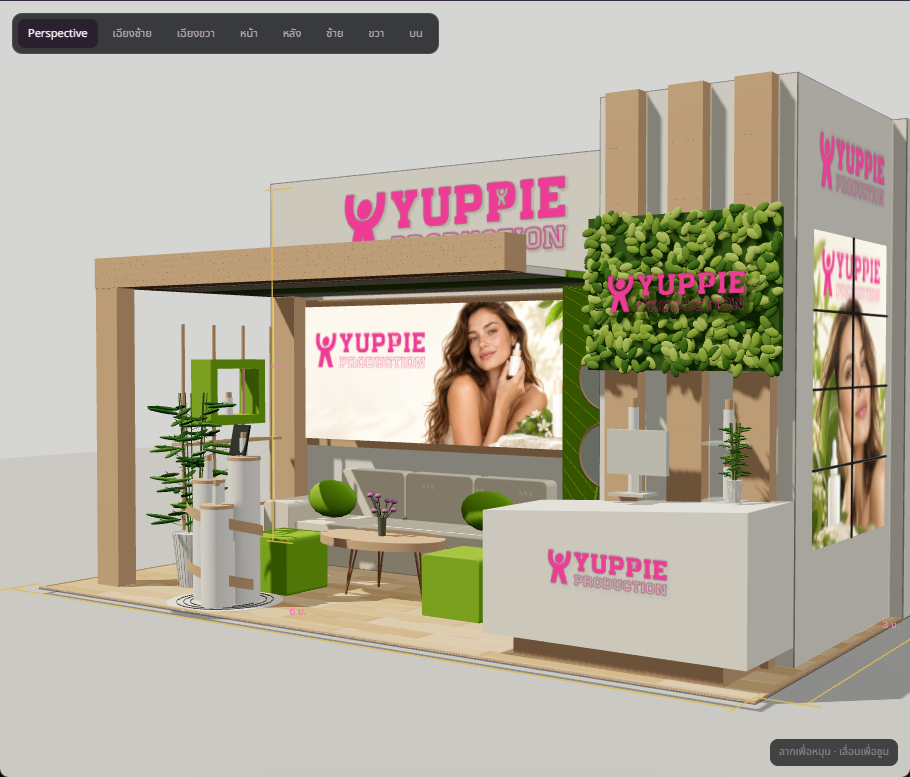
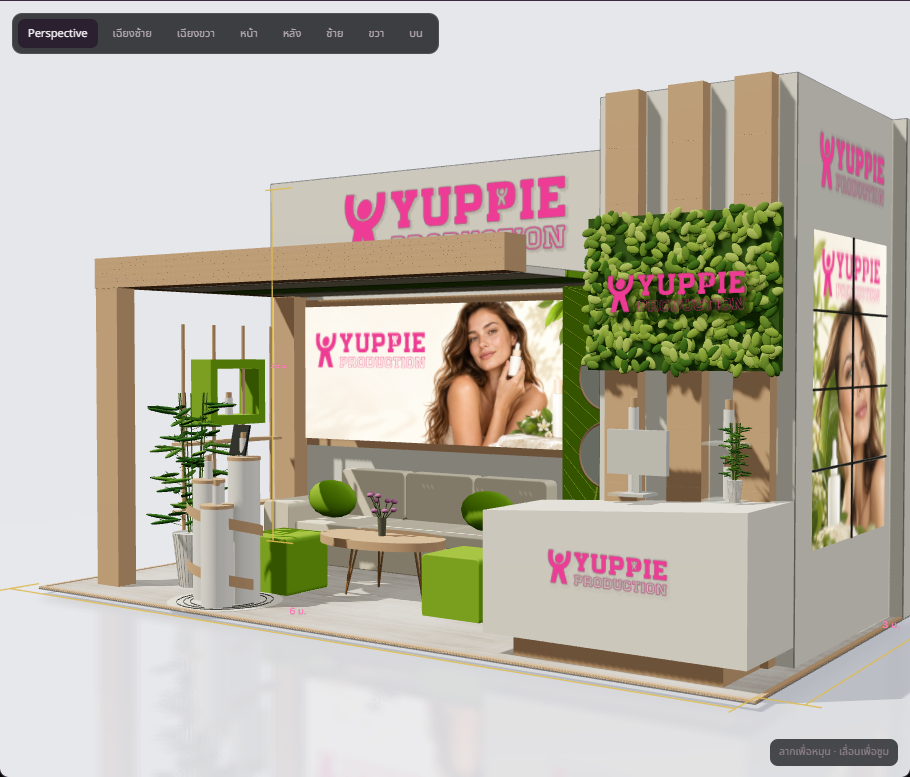
เปลี่ยนพื้นหลัง

Changed region(s): [[0.0, 0.556, 1.0, 1.0]]

diff --git a/public/yp-web-ai/js/studio-environment.js b/public/yp-web-ai/js/studio-environment.js
@@ -1,0 +1,65 @@
+(function(global){
+ 'use strict';
+ const background='#e6e7eb';
+ function create(app,spec){
+  const T=app.THREE,span=Math.max(spec.W,spec.D,spec.H,3),group=new T.Group();
+  group.name='scene-ground';group.userData.systemHelper=true;
+  const target=new T.WebGLRenderTarget(512,512,{type:T.HalfFloatType,depthBuffer:true});
+  const textureMatrix=new T.Matrix4(),bias=new T.Matrix4().set(.5,0,0,.5,0,.5,0,.5,0,0,.5,.5,0,0,0,1);
+  const uniforms={reflection:{value:target.texture},textureMatrix:{value:textureMatrix},baseColor:{value:new T.Color(background)},
+   center:{value:new T.Vector2(spec.W/2,spec.D/2)},span:{value:span},ready:{value:0}};
+  const material=new T.ShaderMaterial({uniforms,toneMapped:false,
+   vertexShader:`uniform mat4 textureMatrix;varying vec4 reflectedUv;varying vec3 world;
+    void main(){vec4 p=modelMatrix*vec4(position,1.0);world=p.xyz;reflectedUv=textureMatrix*p;gl_Position=projectionMatrix*viewMatrix*p;}`,
+   fragmentShader:`uniform sampler2D reflection;uniform vec3 baseColor;uniform vec2 center;uniform float span;uniform float ready;
+    varying vec4 reflectedUv;varying vec3 world;
+    void main(){
+     float distanceFromBooth=length(world.xz-center)/span;
+     float nearBooth=1.0-smoothstep(.45,1.65,distanceFromBooth);
+     vec3 floorColor=mix(baseColor,vec3(1.0),.055*nearBooth);
+     vec2 uv=reflectedUv.xy/reflectedUv.w;
+     vec3 reflected=texture2D(reflection,uv).rgb*.20;
+     // Broad, low-contrast reflection: a satin studio floor, not a mirror.
+     for(int i=0;i<8;i++){float a=float(i)*.78539816;reflected+=texture2D(reflection,uv+vec2(cos(a),sin(a))*.006).rgb*.10;}
+     float inView=step(0.0,uv.x)*step(uv.x,1.0)*step(0.0,uv.y)*step(uv.y,1.0);
+     // Compress HDR highlights while retaining a hint of the booth's actual colours.
+     reflected=clamp(reflected,0.0,1.0);
+     gl_FragColor=vec4(mix(floorColor,reflected,.16*nearBooth*inView*ready),1.0);
+     #include <colorspace_fragment>
+    }`});
+  const floor=new T.Mesh(new T.PlaneGeometry(1000,1000),material);floor.rotation.x=-Math.PI/2;
+  floor.position.set(spec.W/2,-.045,spec.D/2);floor.name='studio-satin-floor';group.add(floor);
+  const shadow=new T.Mesh(new T.PlaneGeometry(1000,1000),new T.ShadowMaterial({color:0x48505e,opacity:.22,depthWrite:false}));
+  shadow.rotation.x=-Math.PI/2;shadow.position.copy(floor.position);shadow.position.y+=.0005;shadow.receiveShadow=true;
+  shadow.name='studio-contact-shadow';group.add(shadow);
+  group.traverse(o=>{o.userData.systemHelper=true;o.raycast=()=>{};});
+  let rendering=false,lastTime=-Infinity,lastKey='',mirror=null,lastType='';
+  floor.onBeforeRender=(renderer,scene,camera)=>{
+   if(rendering||!group.visible)return;
+   const now=performance.now(),key=Array.from(camera.matrixWorld.elements).join(',')+'|'+Array.from(camera.projectionMatrix.elements).join(',')+'|'+app.buildId;
+   // Throttle during orbit/drag; refresh settled frames for asynchronously loaded textures.
+   if(now-lastTime<100||(key===lastKey&&!app.pointerDrag&&now-lastTime<1500))return;
+   lastTime=now;lastKey=key;rendering=true;
+   const hidden=[],oldTarget=renderer.getRenderTarget(),oldXr=renderer.xr.enabled,oldShadowUpdate=renderer.shadowMap.autoUpdate,
+    oldViewport=renderer.getViewport(new T.Vector4()),oldScissor=renderer.getScissor(new T.Vector4()),oldScissorTest=renderer.getScissorTest();
+   try{
+    // Clone the actual camera type: orthographic editing views must reflect correctly too.
+    if(lastType!==camera.type){mirror=camera.clone();lastType=camera.type;}
+    mirror.copy(camera,false);mirror.position.setFromMatrixPosition(camera.matrixWorld);
+    const direction=camera.getWorldDirection(new T.Vector3()),look=mirror.position.clone().add(direction),up=new T.Vector3(0,1,0).transformDirection(camera.matrixWorld);
+    mirror.position.y=2*floor.position.y-mirror.position.y;look.y=2*floor.position.y-look.y;up.y*=-1;
+    mirror.up.copy(up);mirror.lookAt(look);mirror.updateMatrixWorld(true);
+    textureMatrix.copy(bias).multiply(mirror.projectionMatrix).multiply(mirror.matrixWorldInverse);
+    scene.traverse(o=>{if(o.visible&&(o===group||o.userData.systemHelper||/^(object-selection|brand-selection|object-anchor|magnetic-snap|attachment-|booth-dimension|booth-editing-grid|booth-wall-editing-grid)/.test(o.name))){hidden.push(o);o.visible=false;}});
+    renderer.xr.enabled=false;renderer.shadowMap.autoUpdate=false;renderer.setRenderTarget(target);renderer.setScissorTest(false);
+    renderer.clear();renderer.render(scene,mirror);uniforms.ready.value=1;
+   }finally{
+    hidden.forEach(o=>o.visible=true);renderer.setRenderTarget(oldTarget);renderer.setViewport(oldViewport);renderer.setScissor(oldScissor);renderer.setScissorTest(oldScissorTest);
+    renderer.xr.enabled=oldXr;renderer.shadowMap.autoUpdate=oldShadowUpdate;rendering=false;
+   }
+  };
+  group.userData.disposeResources=()=>target.dispose();
+  return group;
+ }
+ global.YPStudioEnvironment={background,create};
+})(globalThis);

diff --git a/public/yp-web-ai/index.html b/public/yp-web-ai/index.html
@@ -5913,6 +5913,7 @@ let threeRenderer=null,threeRendererPromise=null;
 
 function disposeThreeObject(root){
   root.traverse(o=>{
+    o.userData?.disposeResources?.();
     if(o.shadow&&o.shadow.map)o.shadow.map.dispose();
     if(o.userData&&o.userData.sharedAsset)return;
     if(o.geometry)o.geometry.dispose();
@@ -5952,7 +5953,7 @@ class ThreeBoothRenderer{
 
     this.scene=new THREE.Scene();
     // Neutral, bright studio surrounds the booth; the editing UI keeps its dark theme.
-    this.scene.background=new THREE.Color('#d5d5d3');
+    this.scene.background=new THREE.Color(globalThis.YPStudioEnvironment?.background||'#e6e7eb');
     this.perspectiveCamera=new THREE.PerspectiveCamera(42,1,.05,250);
     this.orthographicCamera=new THREE.OrthographicCamera(-1,1,1,-1,.05,250);
     this.orthographicFrameHeight=6;this.camera=this.perspectiveCamera;
@@ -8159,10 +8160,7 @@ class ThreeBoothRenderer{
   }
   buildBooth(spec){
     const T=this.THREE,g=this.boothGroup,t=boothWallThickness(spec),floorY=spec.raise/100,a=palette();
-    const span=Math.max(spec.W,spec.D,spec.H),groundGeo=new T.PlaneGeometry(span*5,span*5);
-    const groundMat=new T.MeshStandardMaterial({color:0xbab9b4,roughness:1});
-    const ground=new T.Mesh(groundGeo,groundMat);ground.name='scene-ground';ground.rotation.x=-Math.PI/2;
-    ground.position.set(spec.W/2,-.045,spec.D/2);ground.receiveShadow=true;ground.userData.systemHelper=true;g.add(ground);
+    g.add(YPStudioEnvironment.create(this,spec));
 
     /* ไม่ยกพื้น = แผ่นพรม/พื้นหนา 3 มม.; ยกพื้นยังใช้ความสูงเดิม 5/10/15 ซม.
        คงผิวด้านบนไว้ที่ระดับ floorY เพื่อไม่ให้วัตถุและผนังขยับตามความหนา */
@@ -10110,6 +10108,7 @@ window.addEventListener('beforeunload',()=>{if(threeRenderer)threeRenderer.dispo
 <script src="js/peninsular-six-geometry.js?v=20260911-six"></script>
 <script src="js/peninsular-six-templates.js?v=20260911-six"></script>
 <script src="js/botanical-images.js?v=20260911-botanical"></script>
+<script src="js/studio-environment.js?v=20260911-1"></script>
 <script src="js/peninsular-botanical.js?v=20260911-floor-finish"></script>
 <script src="js/peninsular-templates.js?v=20260911-botanical"></script>
 <script src="js/peninsular-six-artwork.js?v=20260911-brand-audit"></script>

diff --git a/qa/project-workspace/STUDIO-REFERENCE.md b/qa/project-workspace/STUDIO-REFERENCE.md
@@ -1,0 +1,13 @@
+# Studio surrounds — 2026-09-11
+
+Scope: match the supplied reference's pale grey seamless background and satin exterior floor. Do not recreate the reference booth or change flooring, branding, objects, lights, saved project data or UI colours.
+
+`js/studio-environment.js` provides an effectively horizon-free floor matching the background, a restrained shadow catcher, and low-contrast blurred planar reflections of the current booth. Reflections use a 512 px half-float target with the current camera type (perspective or orthographic), throttled to 10 Hz during navigation/drag and refreshed less often at rest. Helpers are excluded, renderer state is restored after the off-screen pass, and rebuilding/disposal releases the target.
+
+The environment remains a `scene-ground` helper group. Clean isolated booth exports continue hiding that group and restoring its visibility afterwards, preserving the existing export workflow.
+
+Visual review: `studio-reference-perspective.png` has no hard horizon seam, a pale neutral surround and subdued blurred reflections. `studio-reference-front.png` confirms the orthographic view renders without shader errors. This is a real-time studio approximation, not the reference's offline-rendered booth materials or geometry.
+
+Browser regression: `studio-environment-smoke.cjs` passed reflection initialization, resource disposal after a rebuild, unchanged objects and booth flooring, perspective/orthographic renders, export restoration and no WebGL errors. Tested in a fresh browser context, not the user's draft.
+
+Backup: workspace `00_เก่า-สำรอง/2026-09-11_before-reference-studio/index.html`.
